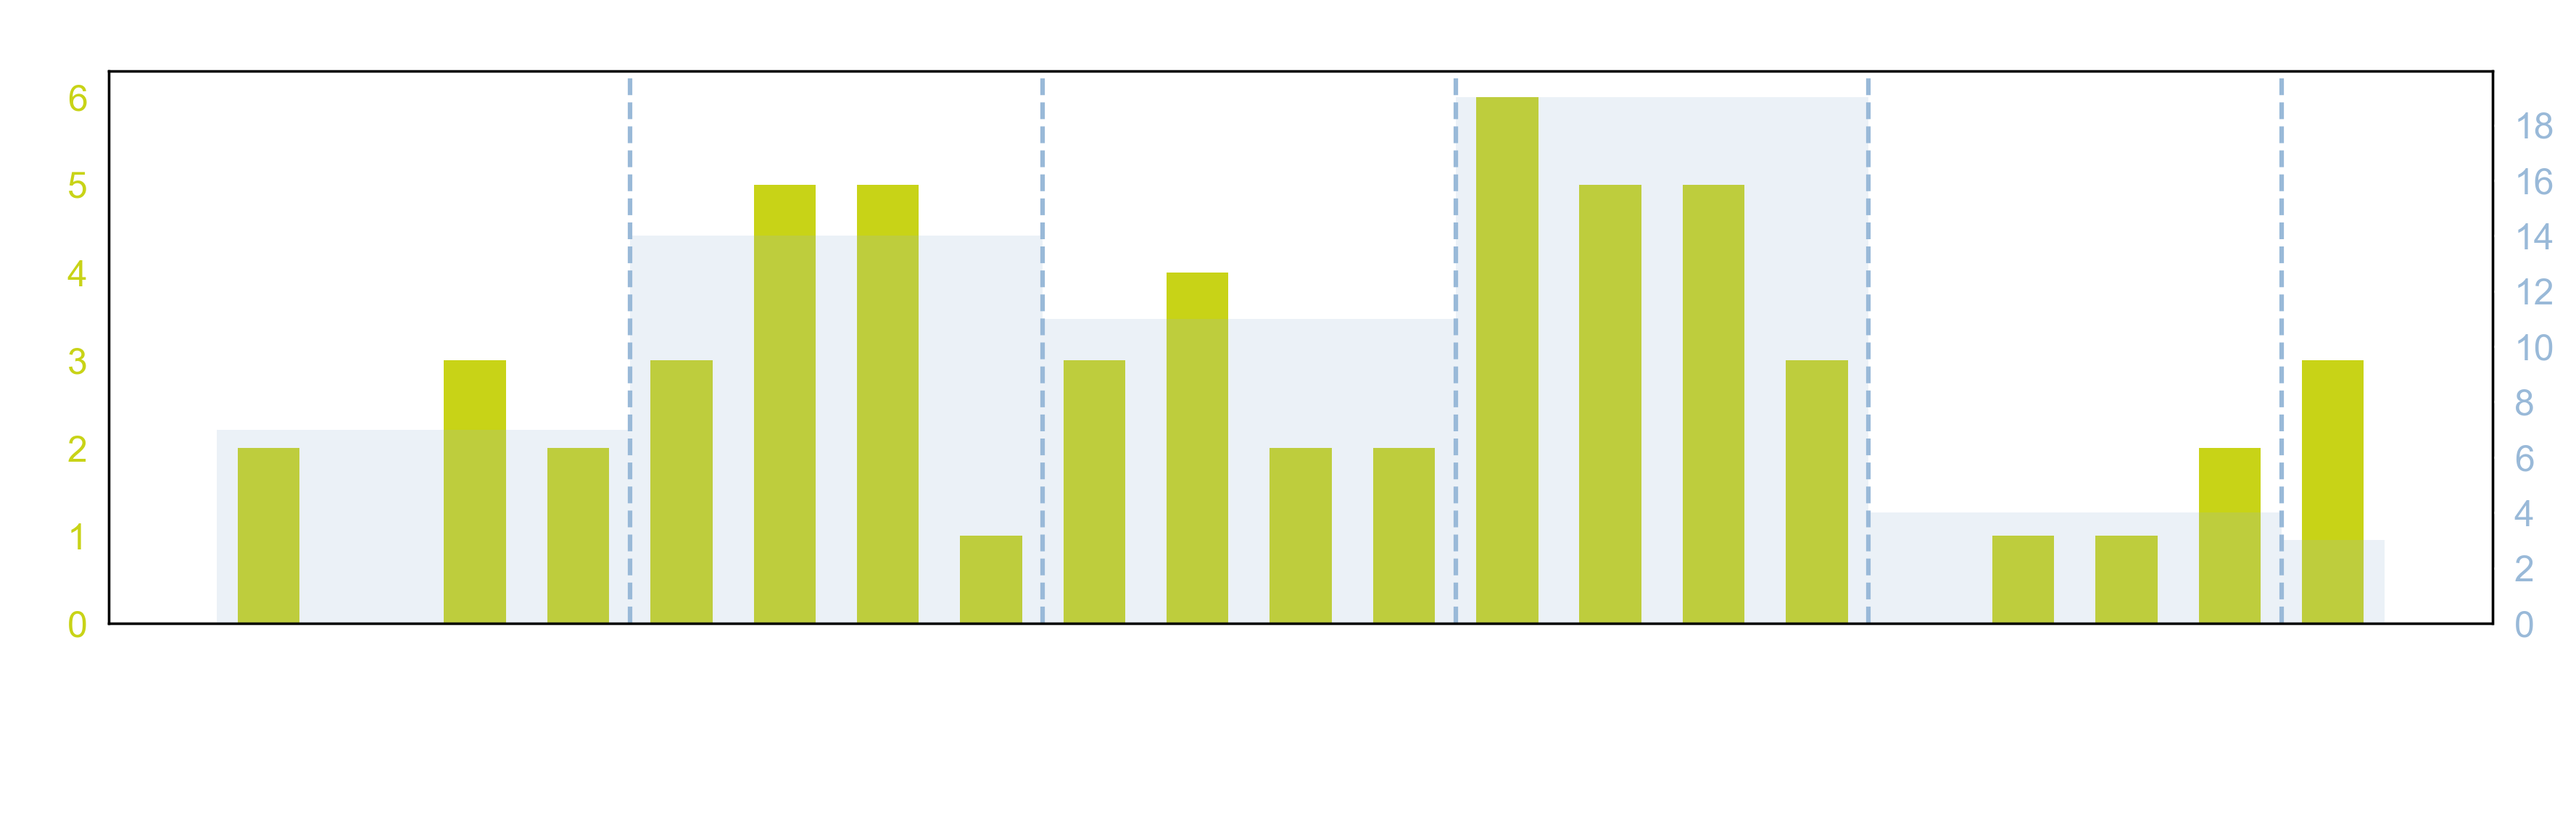
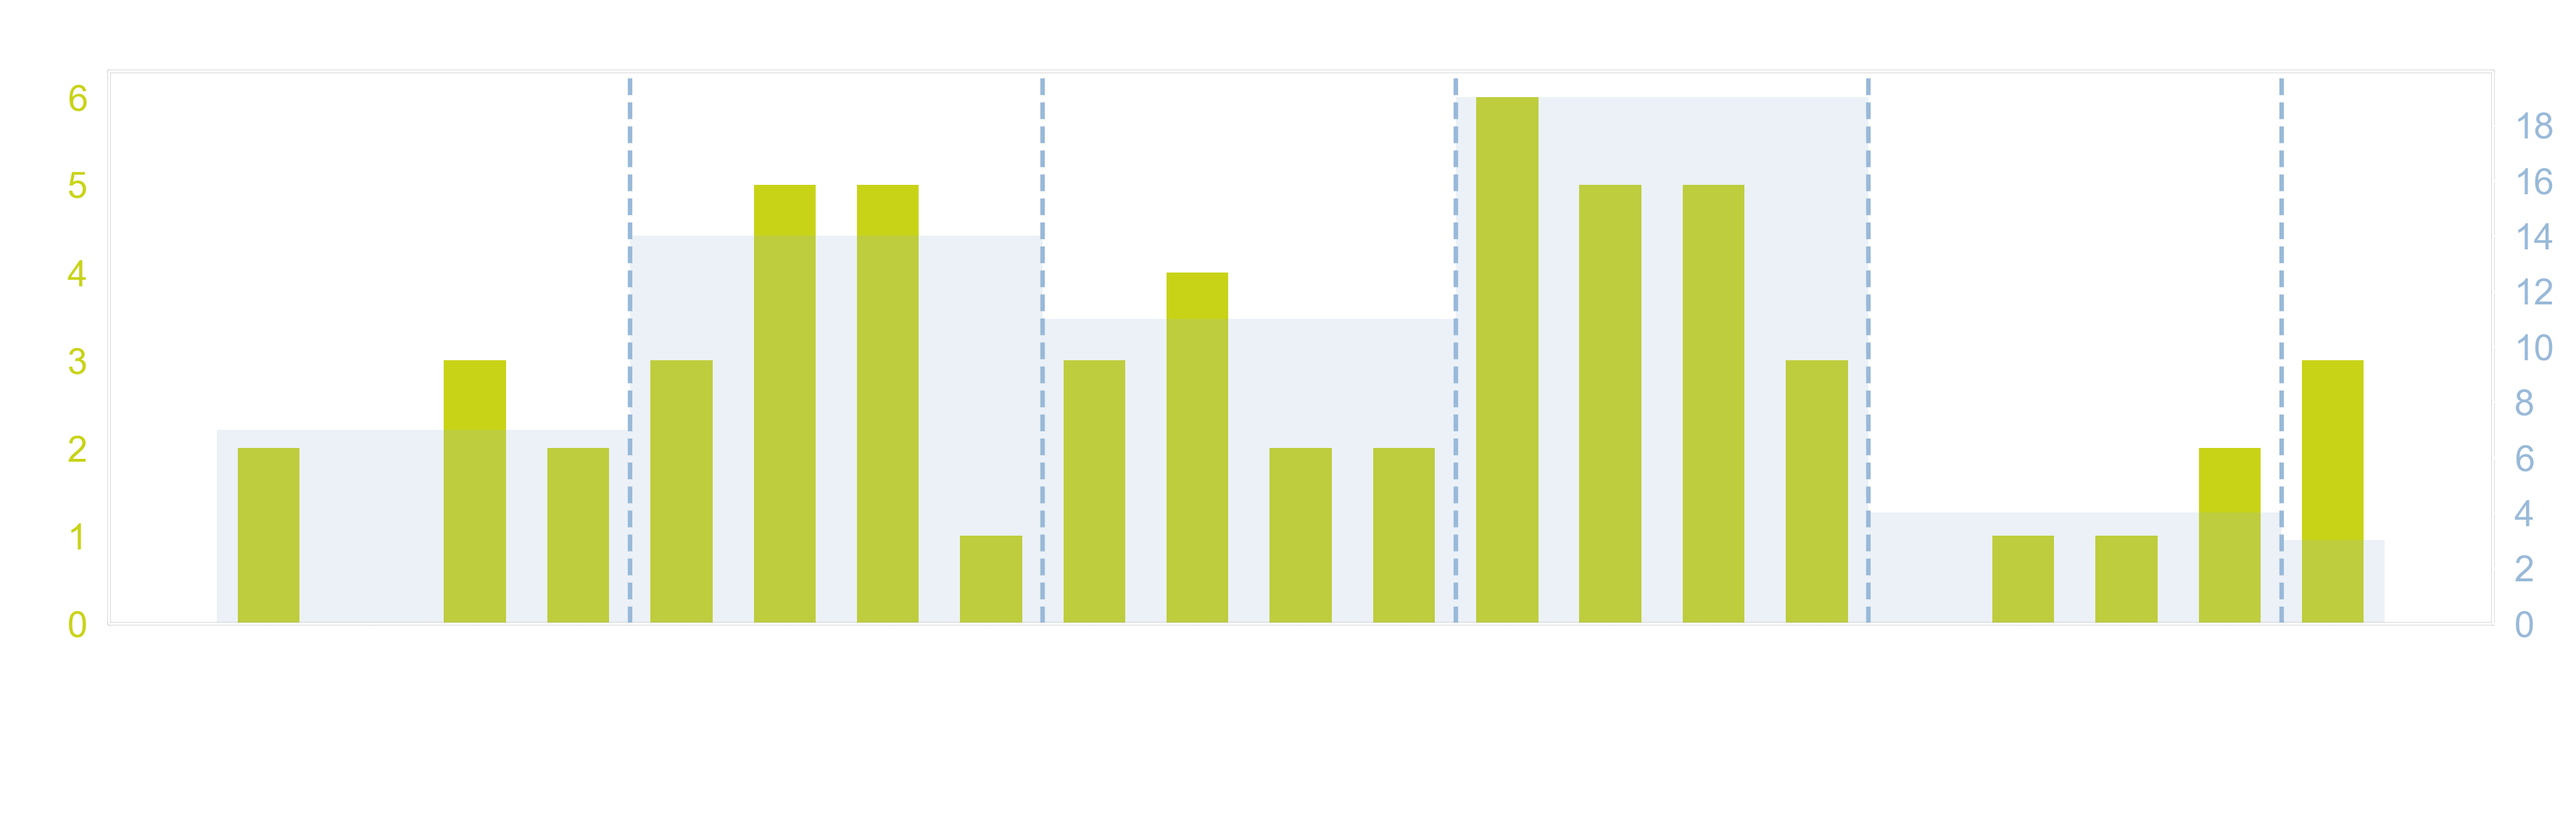
Fix spine color of dark plot

Changed region(s): [[0.0312, 0.7188, 0.9685, 0.75], [0.0312, 0.0625, 0.9685, 0.0938]]

diff --git a/yaml2md.py b/yaml2md.py
@@ -82,6 +82,8 @@ def create_date_histograms(papers):
             if full_quarters[i].endswith('Q4'):
                 ax_quarter.axvline(x=i + 0.5, color=color_years, linestyle='--')
 
+        return fig
+
 
     # Light Mode Figure
     color_years = "#00509B"
@@ -98,6 +100,7 @@ def create_date_histograms(papers):
     plt.tight_layout()
     plt.savefig("assets/papers_per_quarter_light.png", dpi=300, bbox_inches='tight', transparent=True)
     plt.savefig("assets/papers_per_quarter_light.svg", bbox_inches='tight', transparent=True)
+    plt.clf()
 
     # Dark Mode Figure
     color_years = "#99B9D8"
@@ -110,11 +113,18 @@ def create_date_histograms(papers):
         "ytick.color": "white",
     })
 
+    fig = do_plot()
+    # Set frame (spine) color
+    ax = fig.gca()
+    ax.spines['top'].set_color("white")
+    ax.spines['right'].set_color("white")
+    ax.spines['bottom'].set_color("white")
+    ax.spines['left'].set_color("white")
 
-    do_plot()
     plt.tight_layout()
     plt.savefig("assets/papers_per_quarter_dark.png", dpi=300, bbox_inches='tight', transparent=True)
     plt.savefig("assets/papers_per_quarter_dark.svg", bbox_inches='tight', transparent=True)
+    plt.clf()
 
 
 # Load YAML data
